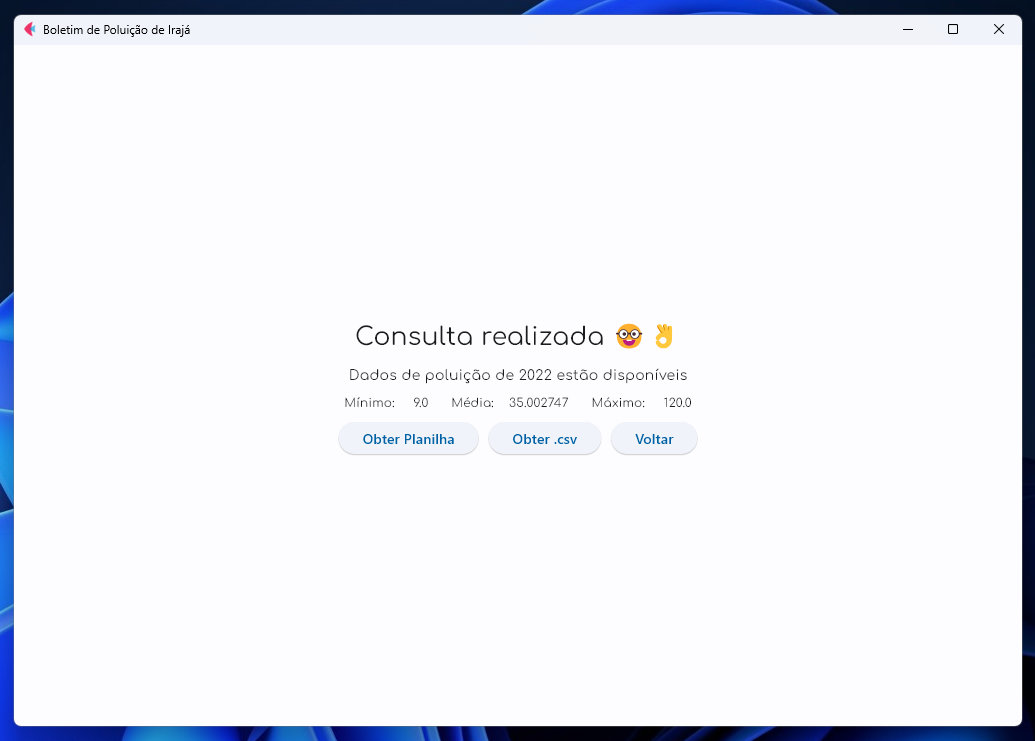
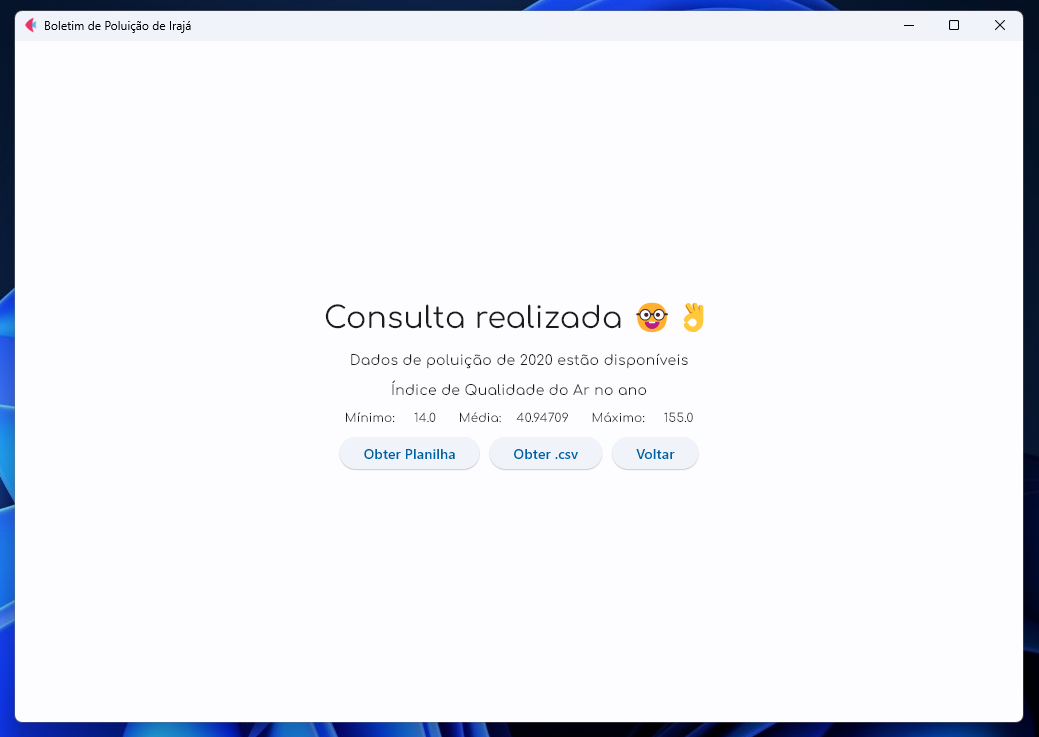
att

diff --git a/main.py b/main.py
@@ -127,7 +127,7 @@ def app(page: Page):
                 limpa_terminal
                 page.clean()
                 page.add(Text(value='Consulta realizada 🤓👌',
-                              size=25, font_family=FONTE),
+                              size=30, font_family=FONTE),
                          Text(value=f'Dados de poluição de {ano_consulta} estão disponíveis',
                               font_family=FONTE),
                          Text(value=f'Índice de Qualidade do Ar no ano',
